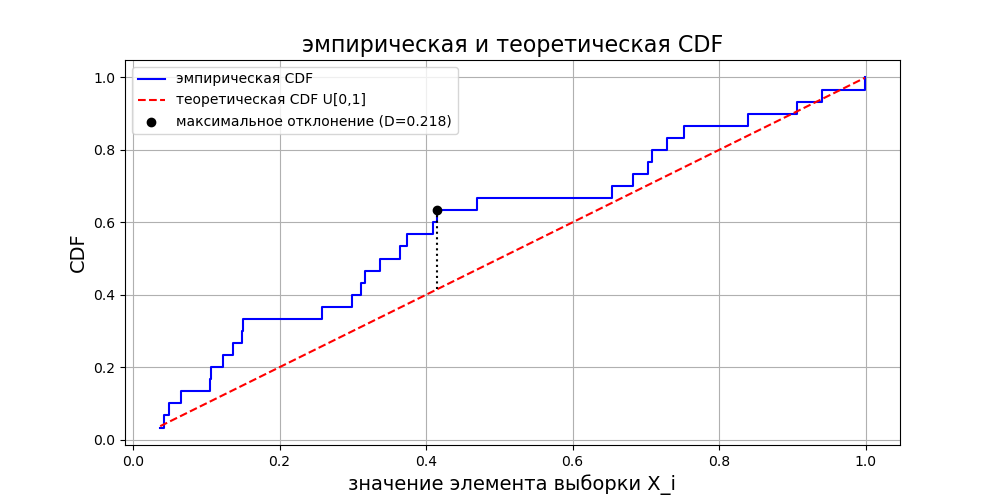
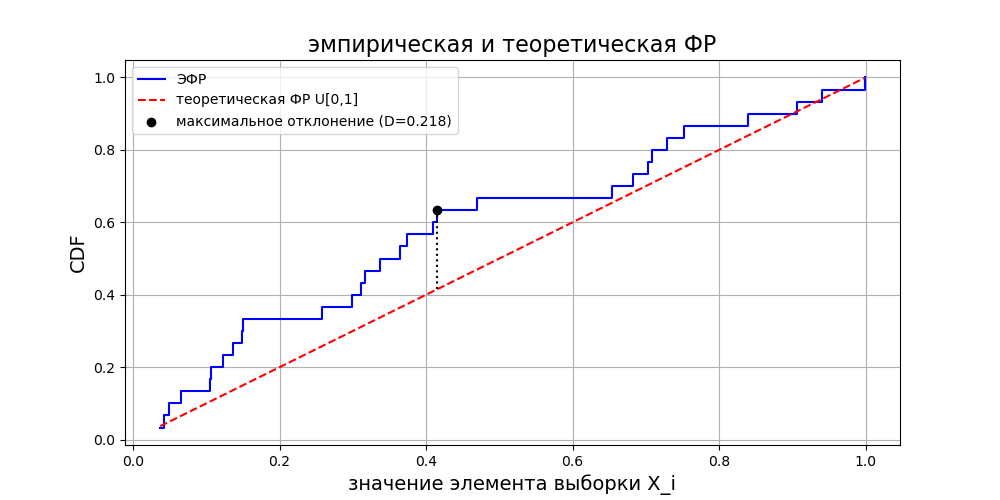
fixed kvantils, normalized outputs for comparison

Changed region(s): [[0.31, 0.06, 0.713, 0.12], [0.155, 0.15, 0.372, 0.21]]

diff --git a/task2/kolmogotov_test.py b/task2/kolmogotov_test.py
@@ -20,8 +20,8 @@ x, y = ecdf(data)
 
 # построение графика ЭФР и теоретической ФР
 plt.figure(figsize=(10, 5))
-plt.step(x, y, where='post', label='эмпирическая CDF', color='blue')  # ЭФР - ступенчатый график (where - положение вертикального перехода между ступенками (pre, mid, post))
-plt.plot(x, uniform.cdf(x), label='теоретическая CDF U[0,1]', linestyle='--', color='red') # теоретическая ФР отображаю f(x)=x на [0,1] 
+plt.step(x, y, where='post', label='ЭФР', color='blue')  # ЭФР - ступенчатый график (where - положение вертикального перехода между ступенками (pre, mid, post))
+plt.plot(x, uniform.cdf(x), label='теоретическая ФР U[0,1]', linestyle='--', color='red') # теоретическая ФР отображаю f(x)=x на [0,1] 
 #uniform.cdf(x) - теоретическая ФР для U[0,1] в точке x (F_0(x_i))
 
 # нахождение точки максимального отклонения между эмпирической и теоретической ФР
@@ -40,7 +40,7 @@ plt.vlines(sup_point, ymin=uniform.cdf(sup_point), ymax=y[max_idx], color='black
 
 plt.xlabel('значение элемента выборки X_i', fontsize=14)
 plt.ylabel('CDF', fontsize=14)
-plt.title('эмпирическая и теоретическая CDF', fontsize=16)
+plt.title('эмпирическая и теоретическая ФР', fontsize=16)
 plt.legend()
 plt.grid(True)
 plt.savefig("ECDF_for_Kolmogorov_test.png")
@@ -51,10 +51,10 @@ d_statistic = np.max(d)
 
 # элементы статистического критерия: мера близости (res) и квантиль (k_kvantil)  
 res = np.sqrt(n) * d_statistic
-# 1 - epsilon = 1 - 0.08 = 0.92. k_(0.92) = 1.22 
+# 1 - epsilon = 1 - 0.08 = 0.92. k_(0.92) = ?
 # https://people.cs.pitt.edu/~lipschultz/cs1538/prob-table_KS.pdf
 # https://vk.com/doc-50757966_626670653
-k_kvantil = 1.22
+k_kvantil = 1.269
 
 # вычисляю РДУЗ (из мана:  It is equal to the (limit as n->infinity of the) probability that sqrt(n) * max absolute deviation > y)
 # https://docs.scipy.org/doc/scipy/reference/generated/scipy.special.kolmogorov.html
@@ -65,9 +65,9 @@ print(f"расстояние Колмогорова (res): {res:.3f}")
 print(f"значение квантиля распределения Колмогорова уровня 1 - epsilon (k_kvantil): {k_kvantil:.3f}")
 
 if res > k_kvantil:
-    print(f"отвергаем H_0: данные НЕ следуют равномерному распределению на [0, 1] ({res:.3f} > {k_kvantil:.3f})")
+    print(f"отвергаем H_0: данные НЕ следуют равномерному распределению на [0, 1] ({res:.3f} >= {k_kvantil:.3f})")
 else:
-    print(f"принимаем H_0: данные согласуются с равномерным распределением на [0, 1] ({res:.3f} <= {k_kvantil:.3f})")
+    print(f"принимаем H_0: данные согласуются с равномерным распределением на [0, 1] ({res:.3f} < {k_kvantil:.3f})")
 
 print()
 

diff --git a/task2/pirson_test.py b/task2/pirson_test.py
@@ -1,5 +1,5 @@
 import numpy as np
-from scipy.stats import chi2
+from scipy.stats import chi2, uniform
 
 data = np.array([
     0.037, 0.941, 0.683, 0.15, 0.84, 0.137, 0.374, 0.316, 0.907, 0.042,
@@ -13,28 +13,39 @@ n = len(data)
 # сколько реально наблюдений из data попали в каждый интервал (частоты) и границы интервалов
 observed_freq, edges = np.histogram(data, bins=k, range=(0, 1))
 
-# ожидаемые частоты для равномерного распределения U[0,1]
-expected_freq = n / k 
+# uniform.cdf(x) - теоретическая ФР для U[0,1] в точке x (F_0(x_i))
+F = uniform.cdf 
+# вероятности попадания в каждый интервал
+p_j = np.diff(F(edges))  
+# ожидаемое количество элементов в каждом интервале j
+expected_freq = n * p_j
 
 # расстояние хи-квадрат
-chi_sq_stat = np.sum((observed_freq - expected_freq)**2 / expected_freq)
+res = np.sum((observed_freq - expected_freq)**2 / expected_freq)
 
 # степени свободы
 df = k - 1
 
+c_kvantil = chi2.ppf(0.92, df)
+
 # p-value - вероятность получить статистику не менее наблюдаемой под H_0 => вычисляю хвост
-# P(chi_sq_stat >= chi_sq_stat(на данной выборке)) = 1 - F(chi_sq_stat(на данной выборке)) = 1 - P(chi_sq_stat < chi_sq_stat(на данной выборке))
+# P(res >= res(на данной выборке)) = 1 - F(res(на данной выборке)) = 1 - P(res < res(на данной выборке))
 # https://docs.scipy.org/doc/scipy/reference/generated/scipy.stats.chi2.html
-p_value = 1 - chi2.cdf(chi_sq_stat, df)
+p_value = 1 - chi2.cdf(res, df)
 
-print(f"наблюдаемые частоты: {observed_freq}")
-print(f"ожидаемые частоты: {expected_freq:.3f}")
-print(f"расстояние хи-квадрат/Пирсона: {chi_sq_stat:.3f}")
-print(f"степени свободы (k-1): {df}")
-print(f"p-value: {p_value:.4f}")
+# print(f"наблюдаемые частоты: {observed_freq}")
+# print(f"ожидаемые частоты: {expected_freq:.3f}")
+print(f"расстояние хи-квадрат/Пирсона (res): {res:.3f}")
+print(f"значение квантиля распределения хи-квадрат уровня 1 - epsilon (c_kvantil): {c_kvantil:.3f}")
 
+if (res > 15.421):
+    print(f"отвергаем H_0: данные НЕ следуют равномерному распределению U[0, 1] ({res:.3f} >= 15.421)")
+else:
+    print(f"принимаем H_0: данные согласуются с равномерным распределением U[0, 1] ({res:.3f} < 15.421)")
+
+print(f"\nРДУЗ (p-value): {p_value:.4f}")
 
 if (p_value <= 0.05): 
-    print("отвергаем H_0: данные НЕ следуют равномерному распределению U[0, 1]")
+    print("РДУЗ <= 0.05 => отвергаем H_0")
 elif (p_value >= 0.1):
-    print("принимаем H_0: данные согласуются с равномерным распределением U[0, 1]")
+    print("РДУЗ >= 0.1 => принимаем H_0")
